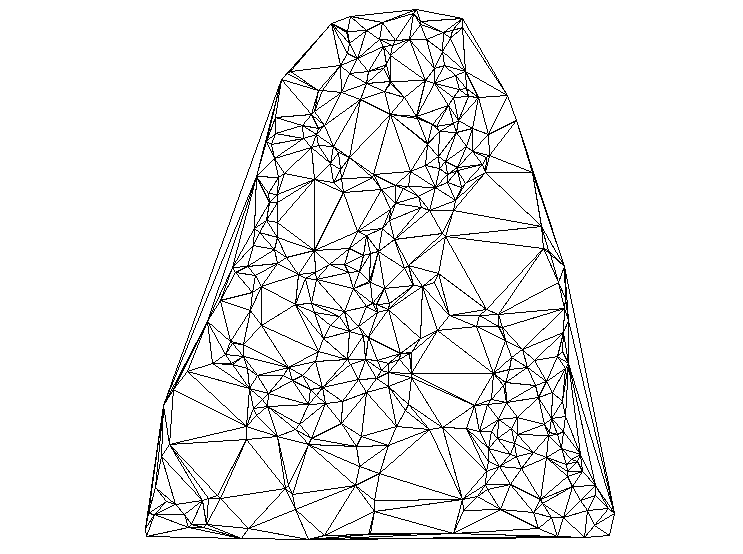
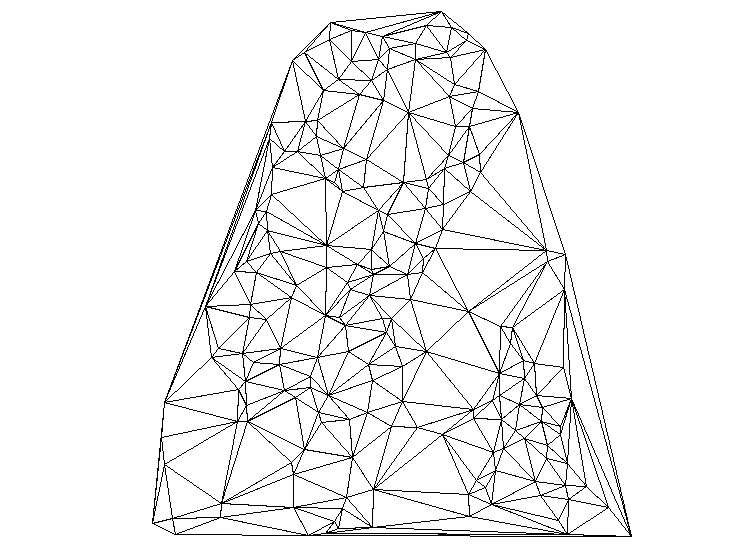
[1st trial close]

Changed region(s): [[0.1857, 0.0, 0.8668, 0.9819], [0.6501, 0.3682, 0.681, 0.3989]]

diff --git a/src/triangle/Drawer.java b/src/triangle/Drawer.java
@@ -18,14 +18,20 @@ public class Drawer {
 	// 이미지 버퍼를 만든다.
 	// 이미지 버퍼에 포인트들을 그린다.
 	// 이미지 버퍼 리턴
-	List<Point> points;
+	//List<Point> points;
+	List<Integer> pixels = new ArrayList<>();
 	BufferedImage bi;
+	BufferedImage origin;
 	Iterator<Triangle_dt> triangles;
 
 	public Drawer(BufferedImage bi) {
 		this.bi = bi;
 	}
 
+	public void setOrigin(BufferedImage origin){
+		this.origin = origin;
+	}
+	
 	public void drawPoints(List<Point> points) {
 		for (Point point : points) {
 			pointFill(point.x(), point.y(), Color.RED);
@@ -69,7 +75,7 @@ public class Drawer {
 		while (iter.hasNext()) {
 			Triangle_dt triangle = iter.next();
 			if (triangle.p1() != null && triangle.p2() != null && triangle.p3() != null) {
-			cnt++;
+				cnt++;
 				Point_dt p1 = triangle.p1();
 				Point_dt p2 = triangle.p2();
 				Point_dt p3 = triangle.p3();
@@ -84,41 +90,67 @@ public class Drawer {
 	}
 
 	public void fillTriangle() {
-//		Graphics2D g = bi.createGraphics();
 		int cnt = 0;
+		Graphics2D g = bi.createGraphics();
 		while (triangles.hasNext()) {
 			Triangle_dt triangle = triangles.next();
 			if (triangle.p1() != null && triangle.p2() != null && triangle.p3() != null) {
 				cnt++;
-				List<Point_dt> list = sortPointY(triangle);
-				Point v1 = new Point((int) list.get(0).x(), (int) list.get(0).y());
-				Point v2 = new Point((int) list.get(1).x(), (int) list.get(1).y());
-				Point v3 = new Point((int) list.get(2).x(), (int) list.get(2).y());
-
-//				g = bi.createGraphics();
-//				g.fillPolygon(new int[]{v1.x(), v2.x(), v3.x()}, new int[] {v1.y(),v2.y(),v3.y()}, 3);
-				
-				if (v2.y() == v3.y()) {
-					fillBottomFlatTriangle(v1, v2, v3);
-				}
-				else if (v1.y() == v2.y()) {
-					fillTopFlatTriangle(v1, v2, v3);
-				} else {
-
-					Point v4 = new Point(
-							(int) (v1.x() + ((float) (v2.y() - v1.y()) / (float) (v3.y() - v1.y()))
-									* (v3.x() - v1.x())), v2.y());
-					fillBottomFlatTriangle(v1, v2, v4);
-					fillTopFlatTriangle(v2, v4, v3);
-					
-					System.out.println("x1 : " + v1.x() + ", y1 : " + v1.y());
-					System.out.println("x2 : " + v2.x() + ", y2 : " + v2.y());
-					System.out.println("x3 : " + v3.x() + ", y3 : " + v3.y());
-					System.out.println("x4 : " + v4.x() + ", y4 : " + v4.y());
-				}
+				g.setColor(new Color(TriangleAvgColor(triangle)));
+				int[] xs = {(int)triangle.p1().x(), (int)triangle.p2().x(), (int)triangle.p3().x()};
+				int[] ys = {(int)triangle.p1().y(), (int)triangle.p2().y(), (int)triangle.p3().y()};
+				g.fillPolygon(xs, ys, 3);
 			}
 		}
 		System.out.println("Triangle : " + cnt);
+	}
+
+	public int TriangleAvgColor(Triangle_dt triangle) {
+		List<Point_dt> list = sortPointY(triangle);
+		Point v1 = new Point((int) list.get(0).x(), (int) list.get(0).y());
+		Point v2 = new Point((int) list.get(1).x(), (int) list.get(1).y());
+		Point v3 = new Point((int) list.get(2).x(), (int) list.get(2).y());
+
+		if (v2.y() == v3.y()) {
+			fillBottomFlatTriangle(v1, v2, v3);
+		} else if (v1.y() == v2.y()) {
+			fillTopFlatTriangle(v1, v2, v3);
+		} else {
+
+			Point v4 = new Point(
+					(int) (v1.x() + ((float) (v2.y() - v1.y()) / (float) (v3.y() - v1.y()))
+							* (v3.x() - v1.x())), v2.y());
+			fillBottomFlatTriangle(v1, v2, v4);
+			fillTopFlatTriangle(v2, v4, v3);
+		}
+		
+		return avgPixels();
+
+	}
+	
+	public int avgPixels(){
+		int r = 0;
+		int g = 0;
+		int b = 0;
+		for (Integer pixel : pixels) {
+			r += (0b00000000111111110000000000000000 & pixel) >> 16; // R
+			g += (0b00000000000000001111111100000000 & pixel) >> 8; // G
+			b += (0b00000000000000000000000011111111 & pixel) >> 0; // B
+		}
+		int err = 0;
+		if(pixels.size() == 0)
+			err = 1;
+		r = r / (pixels.size() + err);
+		g = g / (pixels.size() + err);
+		b = b / (pixels.size() + err);
+		
+		int pixel = 0b11111111000000000000000000000000;
+		pixel += (r & 0xff) << 16; // R
+		pixel += (g & 0xff) << 8; // G
+		pixel += (b & 0xff) << 0; // B
+		
+		pixels.clear();
+		return pixel;
 	}
 
 	public List<Point_dt> sortPointY(Triangle_dt t) {
@@ -127,20 +159,21 @@ public class Drawer {
 		list.add(t.p2());
 		list.add(t.p3());
 		Collections.sort(list, new NoAscCompare());
-		
+
 		for (Point_dt point_dt : list) {
 			System.out.println("x: " + point_dt.x() + " y: " + point_dt.y());
 		}
-		
+		System.out.println();
+
 		return list;
 	}
 
 	public void fillBottomFlatTriangle(Point v1, Point v2, Point v3) {
-		if(v2.x() > v3.x())
+		if (v2.x() > v3.x())
 			swapPoint(v2, v3);
-		
-		float invslope1 = (float)(v2.x() - v1.x()) / (float)(v2.y() - v1.y());
-		float invslope2 = (float)(v3.x() - v1.x()) / (float)(v3.y() - v1.y());
+
+		float invslope1 = (float) (v2.x() - v1.x()) / (float) (v2.y() - v1.y());
+		float invslope2 = (float) (v3.x() - v1.x()) / (float) (v3.y() - v1.y());
 
 		float curx1 = v1.x();
 		float curx2 = v1.x();
@@ -153,11 +186,11 @@ public class Drawer {
 	}
 
 	public void fillTopFlatTriangle(Point v1, Point v2, Point v3) {
-		if(v1.x() > v2.x())
+		if (v1.x() > v2.x())
 			swapPoint(v1, v2);
-		
-		float invslope1 = (float)(v3.x() - v1.x()) / (float)(v3.y() - v1.y());
-		float invslope2 = (float)(v3.x() - v2.x()) / (float)(v3.y() - v2.y());
+
+		float invslope1 = (float) (v3.x() - v1.x()) / (float) (v3.y() - v1.y());
+		float invslope2 = (float) (v3.x() - v2.x()) / (float) (v3.y() - v2.y());
 
 		float curx1 = v3.x();
 		float curx2 = v3.x();
@@ -168,8 +201,8 @@ public class Drawer {
 			drawLine((int) curx1, (int) curx2, scanlineY);
 		}
 	}
-	
-	public void swapPoint(Point a, Point b){
+
+	public void swapPoint(Point a, Point b) {
 		Point temp = new Point(a.x(), a.y());
 		a.setX(b.x());
 		a.setY(b.y());
@@ -179,7 +212,8 @@ public class Drawer {
 
 	public void drawLine(int sx, int ex, int sy) {
 		for (int i = 0; i < ex - sx; i++) {
-			bi.setRGB(sx + i, sy, Color.cyan.getRGB());
+			//bi.setRGB(sx + i, sy, Color.cyan.getRGB());
+			pixels.add(origin.getRGB(sx + i, sy)); 
 		}
 	}
 }

diff --git a/src/triangle/Controller.java b/src/triangle/Controller.java
@@ -42,7 +42,7 @@ public class Controller {
 			int w = originImg.getWidth();
 			int h = originImg.getHeight();
 			// divide 제곱으로 적어야한다.
-			PointGenerator pg = new PointGenerator(w, h, 1800, 30);
+			PointGenerator pg = new PointGenerator(w, h, 900, 30);
 
 			// 그려보자.
 			Drawer drawer = new Drawer(edges);
@@ -59,6 +59,7 @@ public class Controller {
 			BufferedImage canvas = drawer.drawTriangle(pg.getPointList());
 			
 			// 칠하자.
+			drawer.setOrigin(originImg);
 			drawer.fillTriangle();
 			
 			long endTime = System.currentTimeMillis();
@@ -104,3 +105,4 @@ public class Controller {
 // http://jonathanpuckey.com/projects/delaunay-raster/
 // TriangleFill
 // http://www.sunshine2k.de/coding/java/TriangleRasterization/TriangleRasterization.html
+// http://www-users.mat.uni.torun.pl/~wrona/3d_tutor/tri_fillers.html

diff --git a/src/triangleTest/DrawerTest.java b/src/triangleTest/DrawerTest.java
@@ -26,9 +26,9 @@ public class DrawerTest {
 
 		BufferedImage bi = new BufferedImage(800, 800, BufferedImage.TYPE_INT_ARGB);
 		Drawer drawer = new Drawer(bi);
-		Point v1 = new Point(100, 100);
-		Point v2 = new Point(200, 200);
-		Point v3 = new Point(150, 300);
+		Point v1 = new Point(557, 233);
+		Point v2 = new Point(564, 264);
+		Point v3 = new Point(628, 531);
 		Point v4 = new Point(
 				(int) (v1.x() + ((float) (v2.y() - v1.y()) / (float) (v3.y() - v1.y()))
 						* (v3.x() - v1.x())), v2.y());
